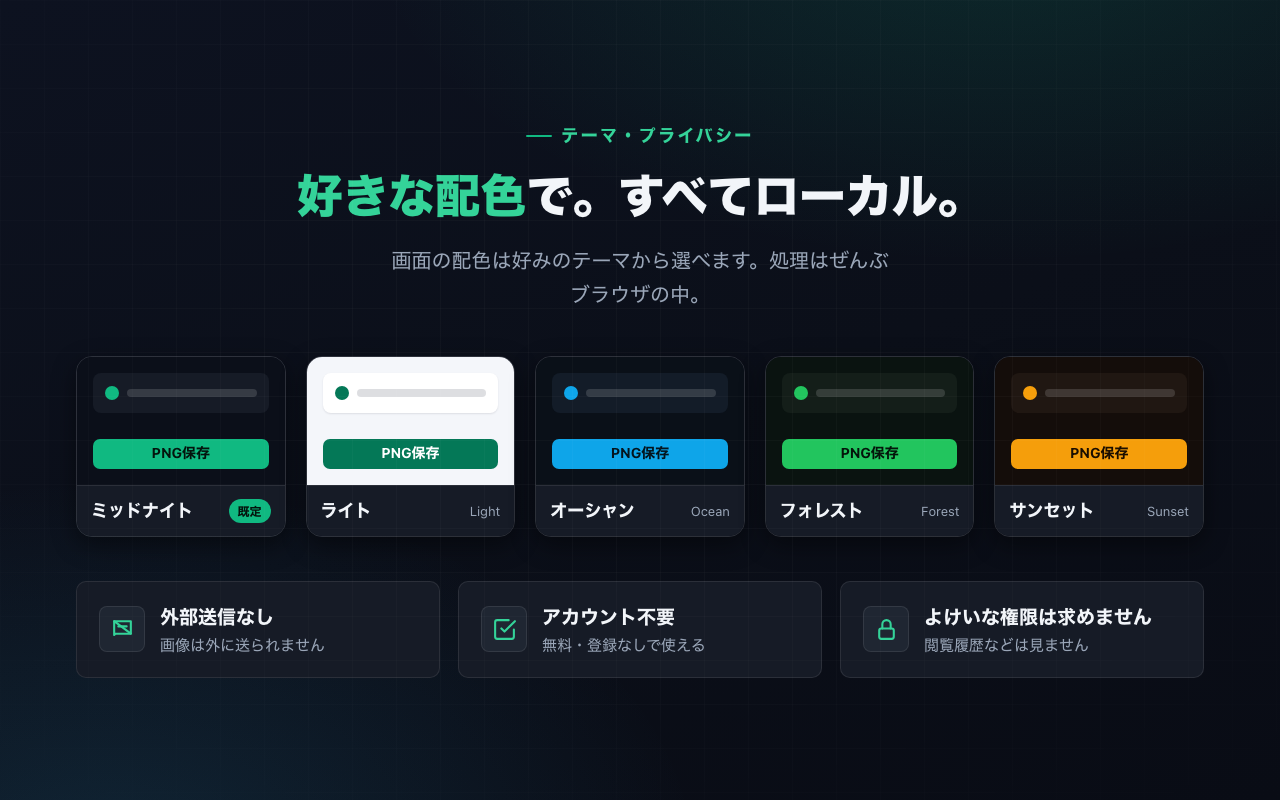
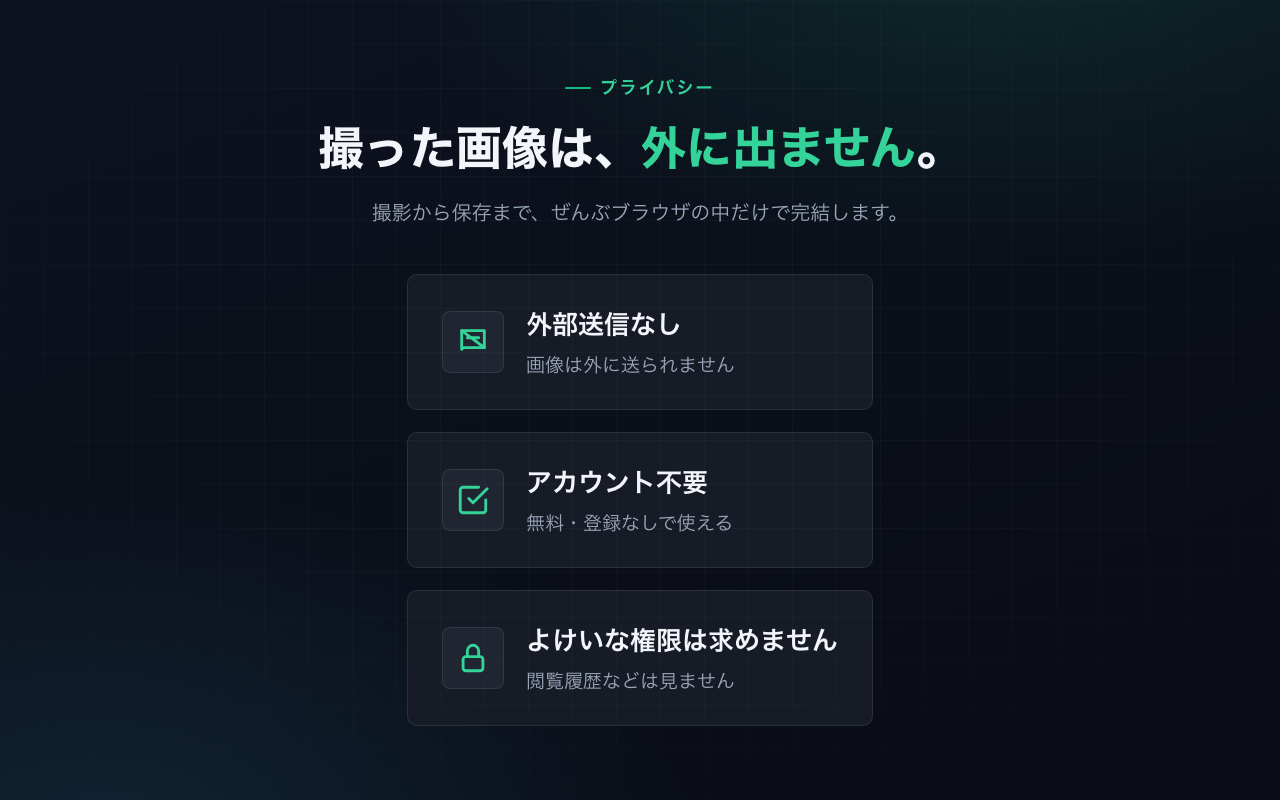
chore: バージョンを 0.9.0 に更新
UI テーマ削除に伴い、ストア掲載画像 shot-4 を撮り直して差し替える
（1280x800・24bit RGB）。

Claude-Session: https://claude.ai/code/session_01LJR4LYmW5oCg67cMRYArvn

diff --git a/README.md b/README.md
@@ -7,7 +7,7 @@
 **撮って、その場で注釈・モザイク・クロップ。完全ローカル動作のスクリーンショット編集ツール**
 
 [![CI](https://github.com/joe41203/shotcraft/actions/workflows/ci.yml/badge.svg)](https://github.com/joe41203/shotcraft/actions/workflows/ci.yml)
-[![version](https://img.shields.io/badge/version-0.8.1-22c55e)](./package.json)
+[![version](https://img.shields.io/badge/version-0.9.0-22c55e)](./package.json)
 [![Manifest V3](https://img.shields.io/badge/Manifest-V3-4285F4)](https://developer.chrome.com/docs/extensions/mv3/intro/)
 [![Built with WXT](https://img.shields.io/badge/built%20with-WXT-67d4f8)](https://wxt.dev/)
 [![Konva](https://img.shields.io/badge/canvas-Konva-0d83cd)](https://konvajs.org/)
